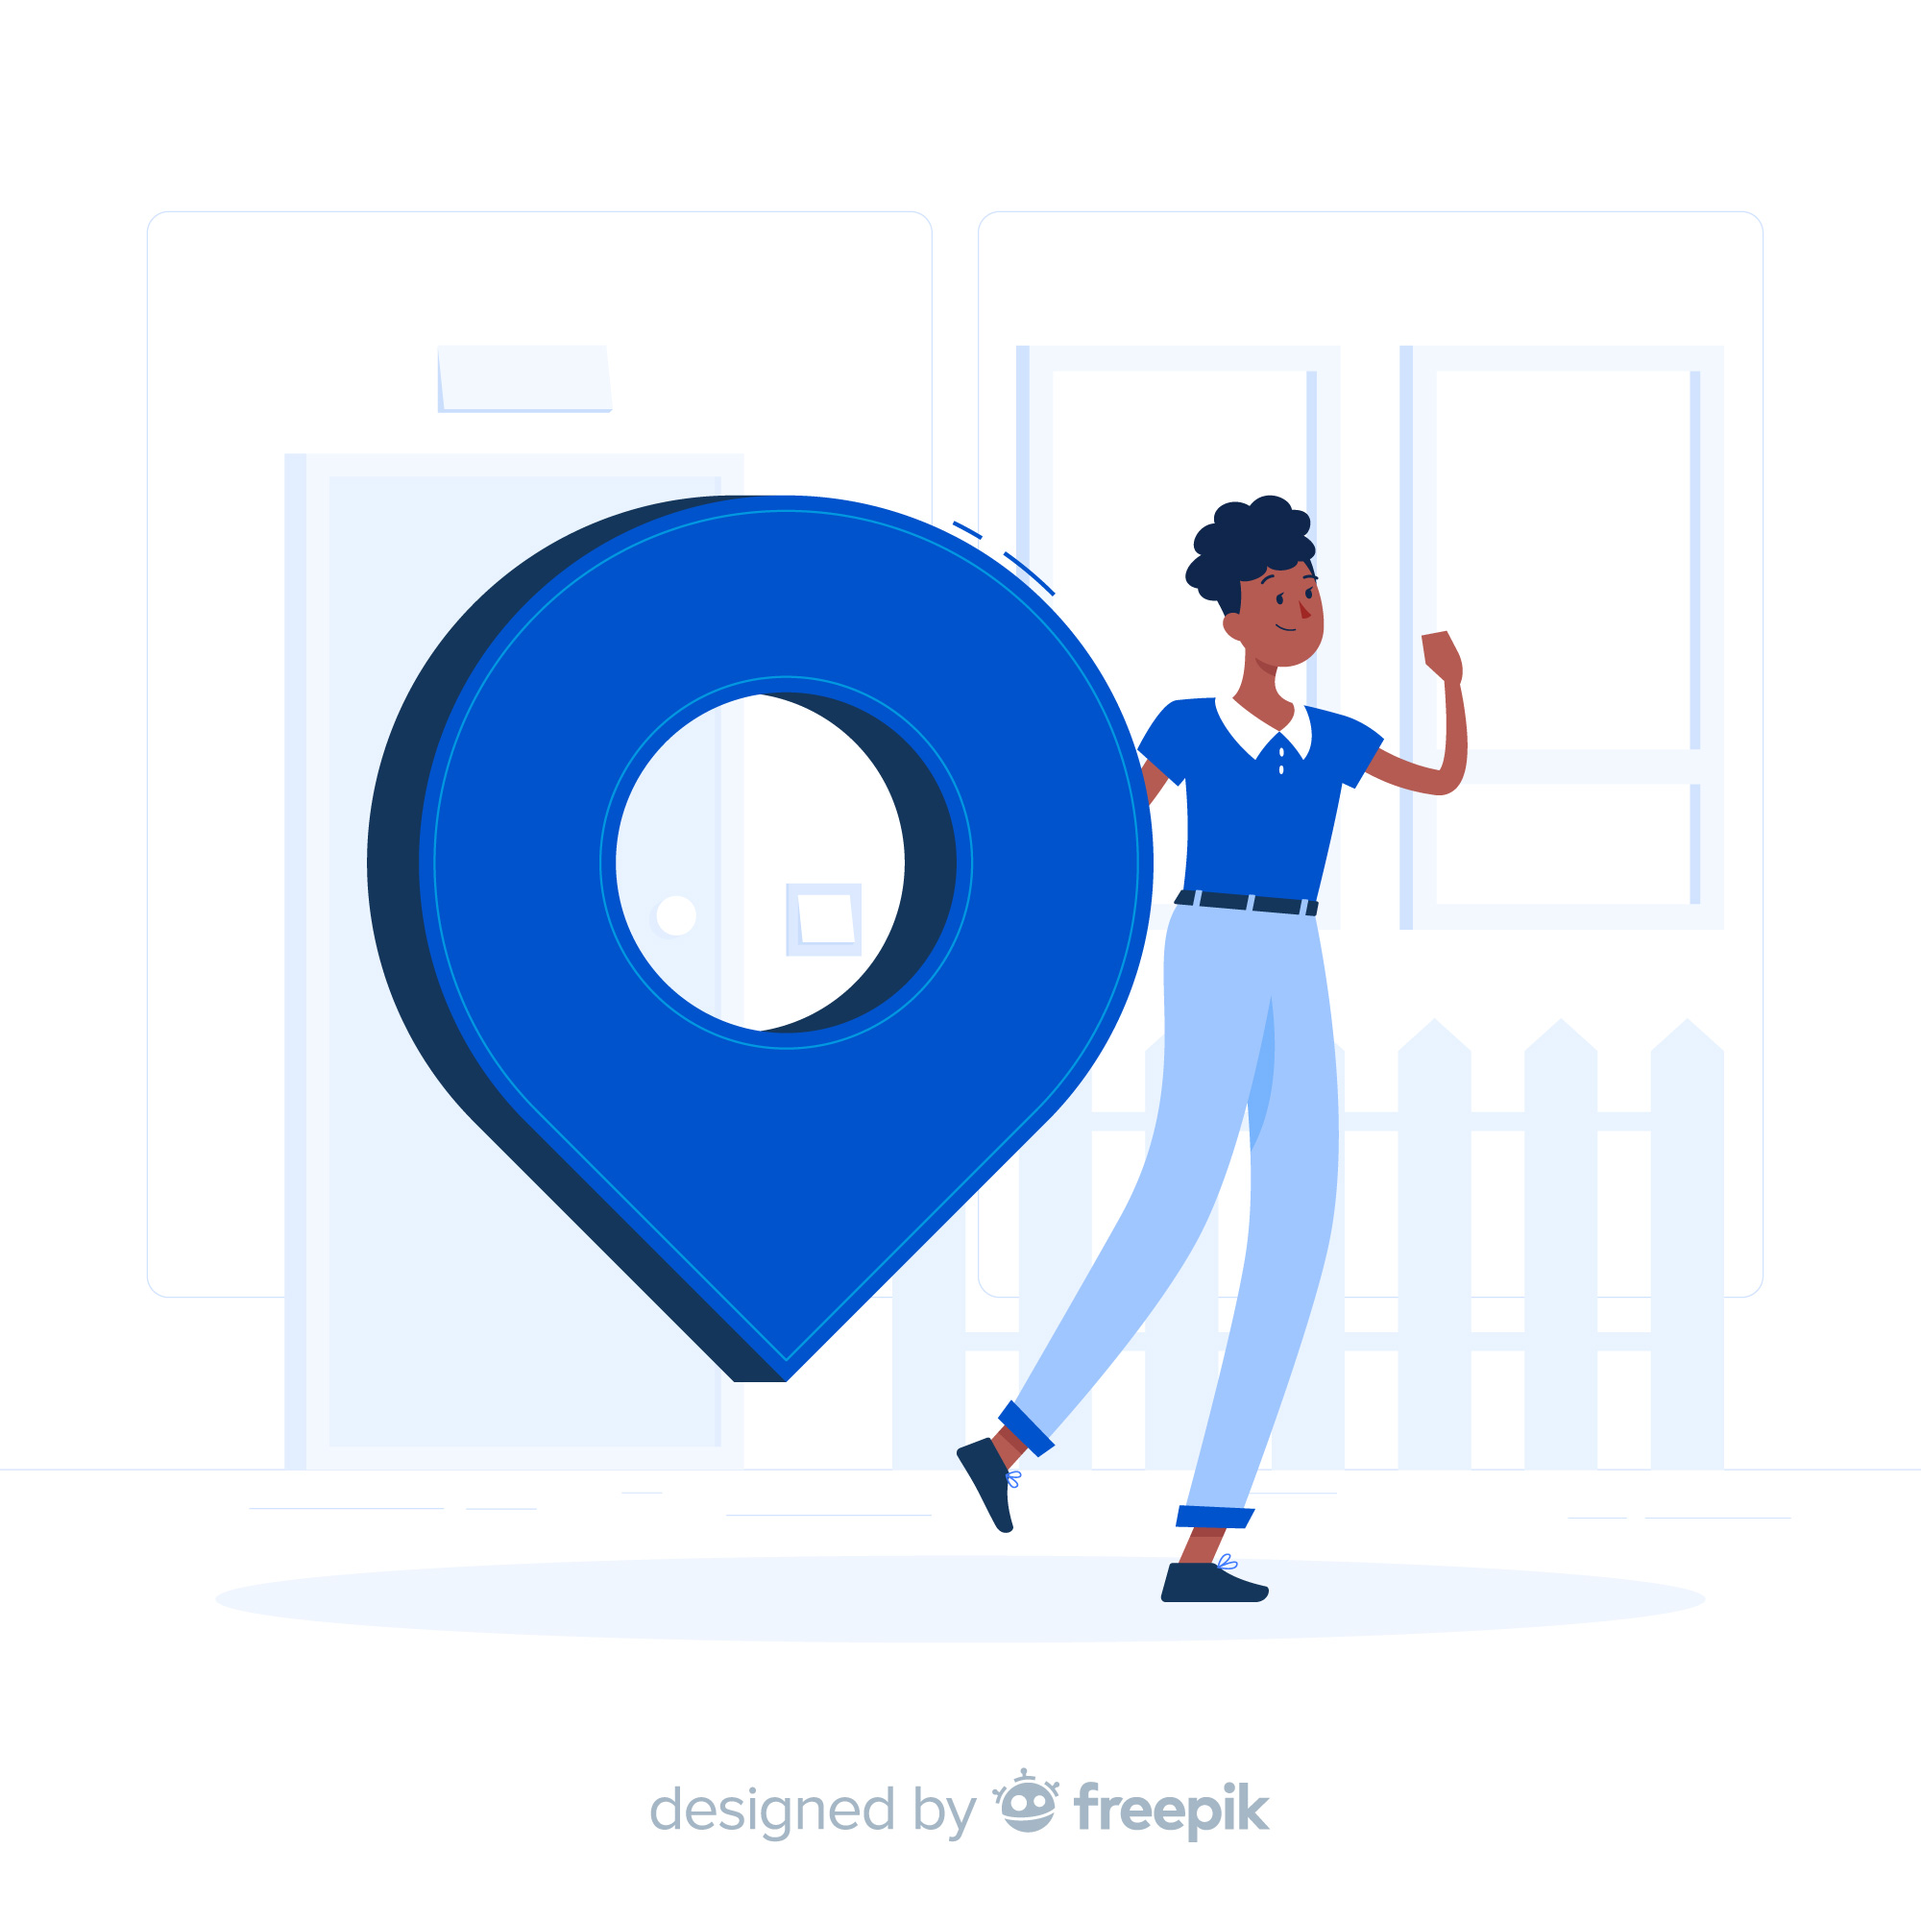
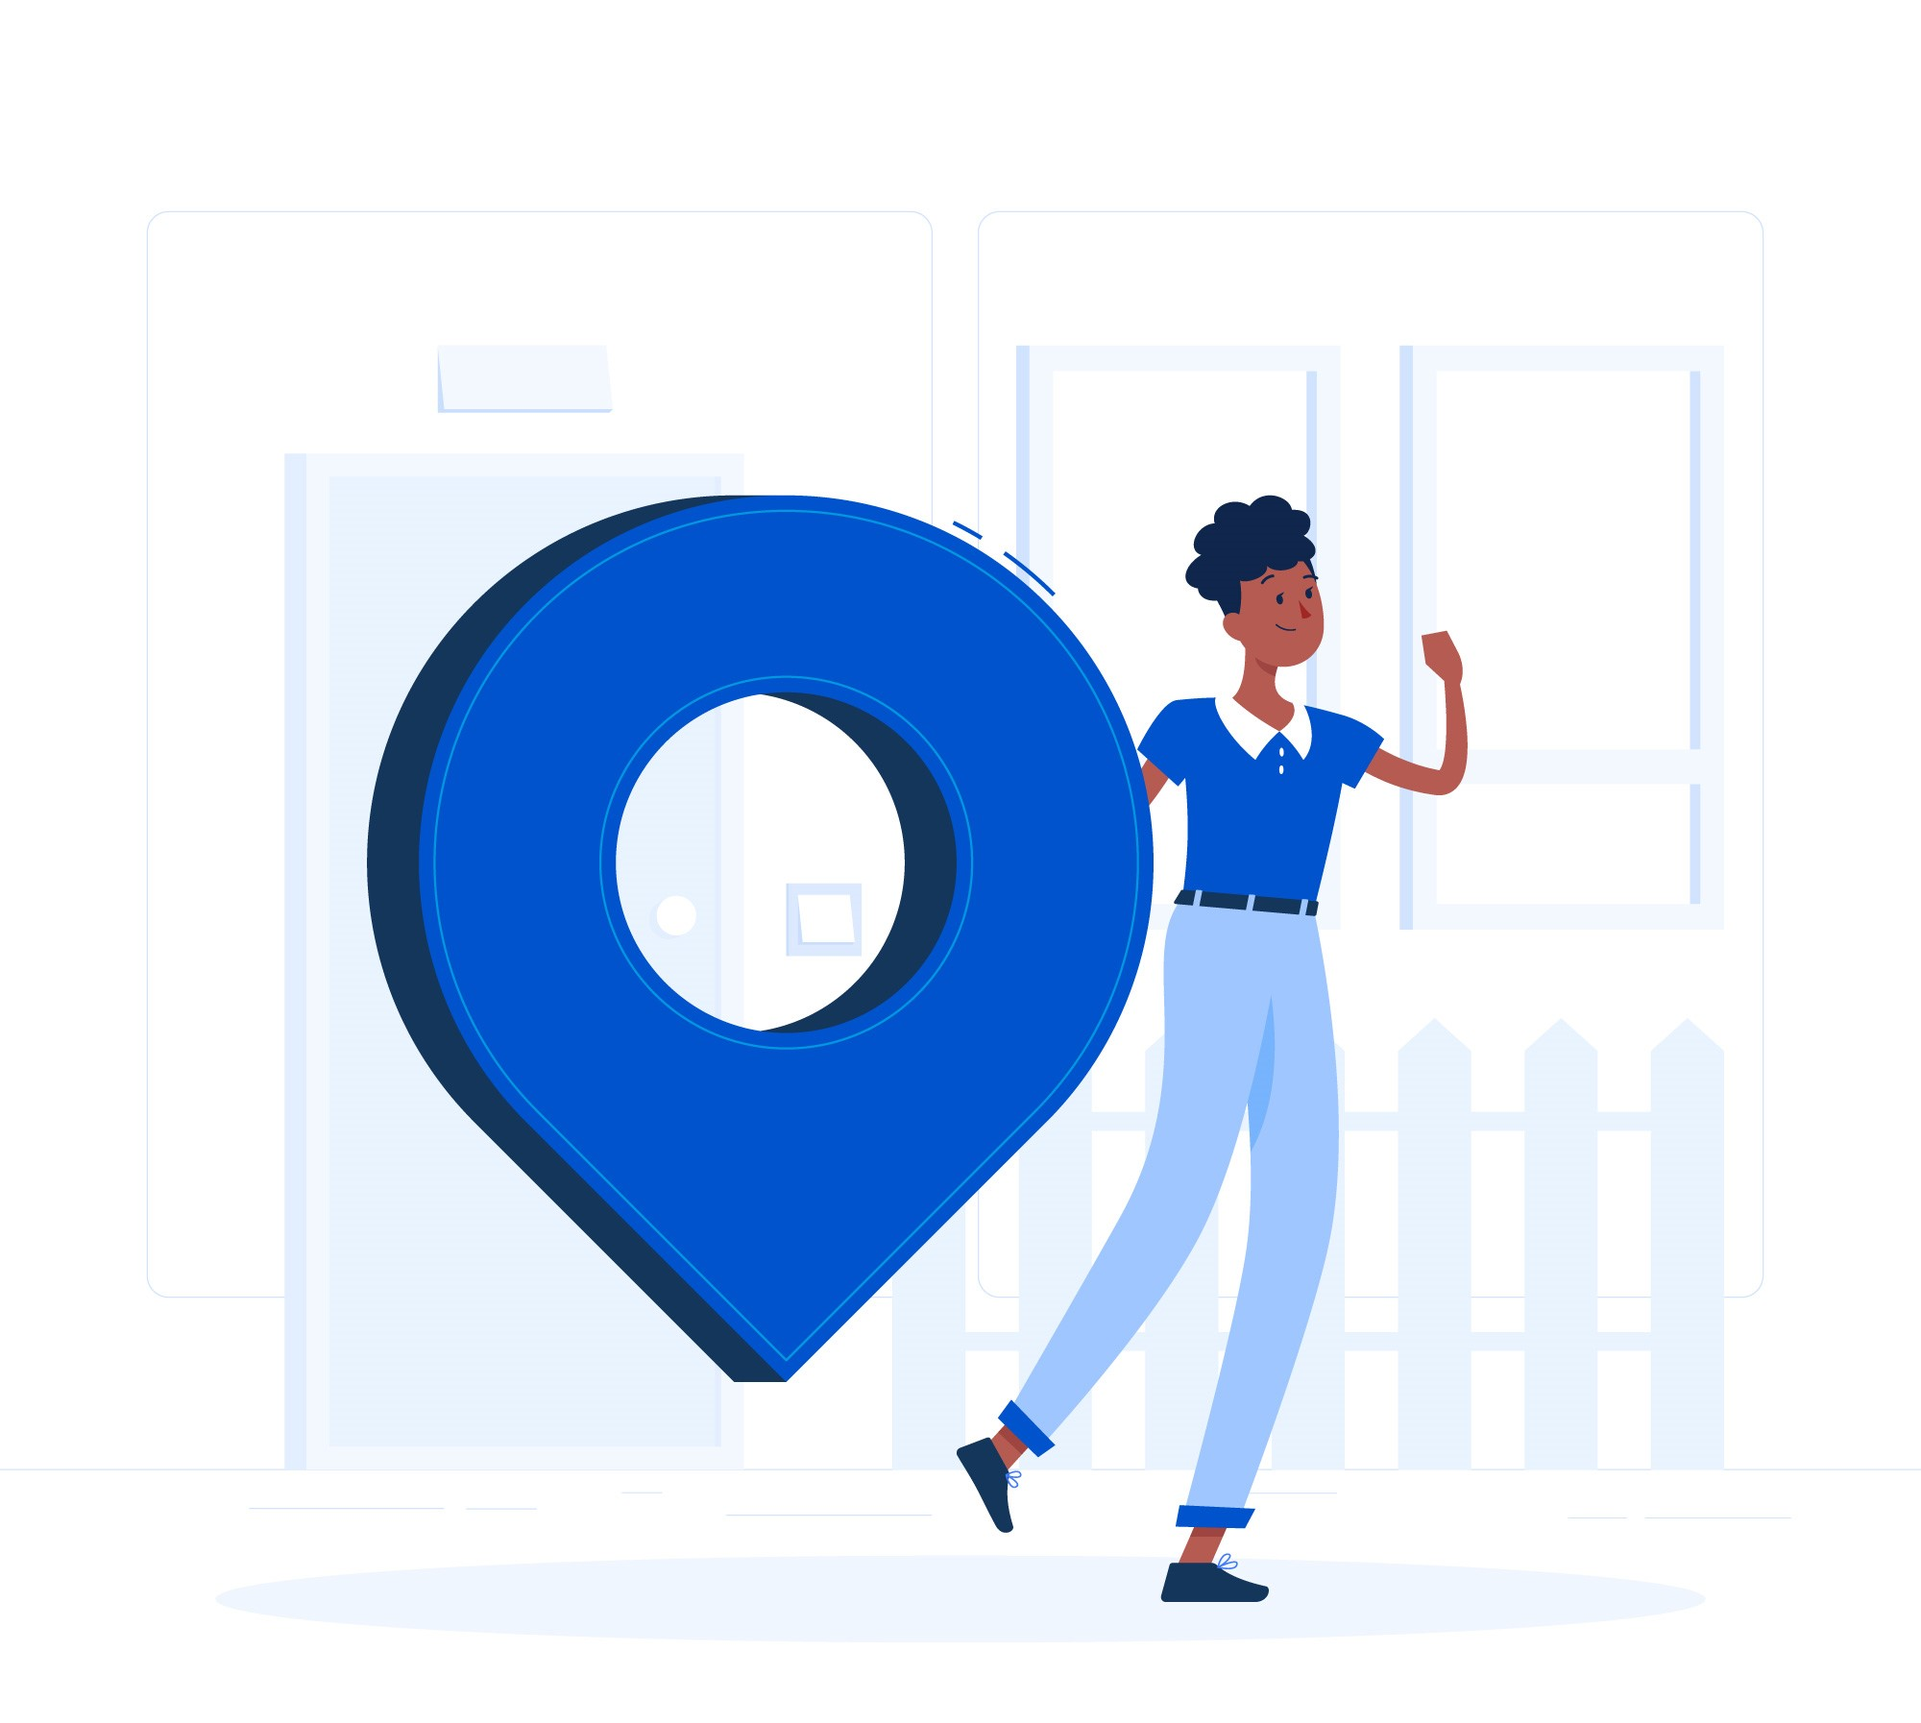
auth design changes

diff --git a/app/Screens/signUp.js b/app/Screens/signUp.js
@@ -49,23 +49,19 @@ const styles = StyleSheet.create({
   },
   headerContainer: {
     alignItems: "center",
-    // backgroundColor: "rgba(255, 59, 48, 0.05)",
-    paddingVertical: hp(4),
-    // borderBottomLeftRadius: 30,
-    // borderBottomRightRadius: 30,
-    // marginBottom: hp(2),
   },
   headerImage: {
-    height: hp(21),
+    height: hp(39),
     width: wp(80),
     resizeMode: "contain",
+    marginVertical: hp(-3),
   },
   title: {
     fontSize: hp(4),
     fontWeight: "bold",
     textAlign: "center",
     color: "#333",
-    marginVertical: hp(-2),
+    marginVertical: hp(3),
   },
   inputContainer: {
     backgroundColor: "white",
@@ -93,7 +89,7 @@ const styles = StyleSheet.create({
     color: "#333",
   },
   errorText: {
-    color: "#4A90E2",
+    color: "#ff3b30",
     fontSize: hp(1.6),
     marginLeft: wp(4),
     marginTop: -hp(1),
@@ -263,11 +259,11 @@ export default function SignUp() {
       }
       if (
         !password ||
-        !/^(?=.*[a-z])(?=.*[A-Z])(?=.*\d)[a-zA-Z\d]{8,}$/.test(password)
+        !/^(?=.*[a-z])(?=.*[A-Z])(?=.*\d)[a-zA-Z\d]{6,}$/.test(password)
       ) {
         Alert.alert(
           "Error",
-          "Password must contain at least 8 characters, one uppercase letter, one lowercase letter, and one number"
+          "Password must contain at least 6 characters, one uppercase letter, one lowercase letter, and one number"
         );
         return;
       }
@@ -398,7 +394,7 @@ export default function SignUp() {
           <View style={styles.headerContainer}>
             <Image
               style={styles.headerImage}
-              source={require("../../assets/images/signIn1.jpg")}
+              source={require("../../assets/images/signIn2.jpg")}
             />
             <Text style={styles.title}>Sign Up</Text>
           </View>
@@ -448,7 +444,7 @@ export default function SignUp() {
               (nameVerify ? (
                 <Feather name="check-circle" size={20} color="#4CAF50" />
               ) : (
-                <Entypo name="circle-with-cross" size={20} color="#4A90E2" />
+                <Entypo name="circle-with-cross" size={20} color="#ff3b30" />
               ))}
           </View>
           {name.length > 0 && !nameVerify && (
@@ -470,7 +466,7 @@ export default function SignUp() {
               (emailVerify ? (
                 <Feather name="check-circle" size={20} color="#4CAF50" />
               ) : (
-                <Entypo name="circle-with-cross" size={20} color="#4A90E2" />
+                <Entypo name="circle-with-cross" size={20} color="#ff3b30" />
               ))}
           </View>
           {email.length > 0 && !emailVerify && (
@@ -491,7 +487,7 @@ export default function SignUp() {
               (mobileVerify ? (
                 <Feather name="check-circle" size={20} color="#4CAF50" />
               ) : (
-                <Entypo name="circle-with-cross" size={20} color="#4A90E2" />
+                <Entypo name="circle-with-cross" size={20} color="#ff3b30" />
               ))}
           </View>
           {mobile.length > 0 && !mobileVerify && (

diff --git a/app/Screens/CompanyRegistration.js b/app/Screens/CompanyRegistration.js
@@ -79,12 +79,12 @@ const styles = StyleSheet.create({
     marginBottom: hp(1),
   },
   button: {
-    backgroundColor: "#ff3b30",
+    backgroundColor: "#4A90E2",
     height: hp(6.5),
     borderRadius: 12,
     justifyContent: "center",
     alignItems: "center",
-    shadowColor: "#ff3b30",
+    shadowColor: "#4A90E2",
     shadowOffset: {
       width: 0,
       height: 4,
@@ -94,32 +94,34 @@ const styles = StyleSheet.create({
     elevation: 8,
   },
   headerImage: {
-    height: hp(20),
-    width: wp(90),
+    height: hp(38),
+    width: wp(80),
     resizeMode: "contain",
+    marginVertical: hp(-8.5),
   },
   title: {
     fontSize: hp(3.5),
     fontWeight: "bold",
     textAlign: "center",
     color: "#333",
-    marginVertical: hp(2),
+    marginVertical: hp(4),
+    paddingTop: hp(2),
     marginBottom: hp(-1),
   },
   linkContainer: {
     flexDirection: "row",
     justifyContent: "center",
-    marginTop: hp(3),
-    paddingVertical: hp(2),
+    marginTop: hp(2),
+    paddingVertical: hp(-2),
   },
   linkText: {
-    fontSize: hp(1.8),
+    fontSize: hp(2),
     color: "#666",
   },
   linkButton: {
-    fontSize: hp(1.8),
-    color: "#ff3b30",
-    fontWeight: "bold",
+    fontSize: hp(2),
+    color: "#4A90E2",
+    fontWeight: "800",
   },
 });
 
@@ -246,7 +248,7 @@ export default function CompanyRegistration() {
           <View style={styles.headerContainer}>
             <Image
               style={styles.headerImage}
-              source={require("../../assets/images/GPS_MAP13.jpg")}
+              source={require("../../assets/images/compReg.jpg")}
             />
             <Text style={styles.title}>Company Registration</Text>
           </View>

diff --git a/app/Screens/signIn.js b/app/Screens/signIn.js
@@ -293,11 +293,11 @@ const styles = StyleSheet.create({
     padding: wp(2), // Add padding for better touch area
   },
   forgotPassword: {
-    fontSize: hp(1.8),
+    fontSize: hp(1.9),
     color: "#4A90E2",
     textAlign: "right",
     marginBottom: hp(2.5),
-    fontWeight: "600",
+    fontWeight: "800",
   },
   button: {
     backgroundColor: "#4A90E2",
@@ -323,7 +323,7 @@ const styles = StyleSheet.create({
   dividerContainer: {
     flexDirection: "row",
     alignItems: "center",
-    marginVertical: hp(3),
+    marginVertical: hp(2),
   },
   divider: {
     flex: 1,
@@ -341,11 +341,11 @@ const styles = StyleSheet.create({
     marginVertical: hp(1),
   },
   linkText: {
-    fontSize: hp(1.8),
+    fontSize: hp(1.9),
     color: "#666",
   },
   linkButton: {
-    fontSize: hp(1.8),
+    fontSize: hp(1.9),
     color: "#4A90E2",
     fontWeight: "800",
   },

diff --git a/app/Screens/ForgetPassword.js b/app/Screens/ForgetPassword.js
@@ -40,13 +40,14 @@ const styles = StyleSheet.create({
     height: hp(45),
     width: wp(90),
     resizeMode: "cover",
+    marginVertical: hp(-3),
   },
   title: {
     fontSize: hp(4),
     fontWeight: "bold",
     textAlign: "center",
     color: "#333",
-    marginVertical: hp(2),
+    marginVertical: hp(-1),
     marginBottom: hp(-1),
   },
   inputContainer: {
